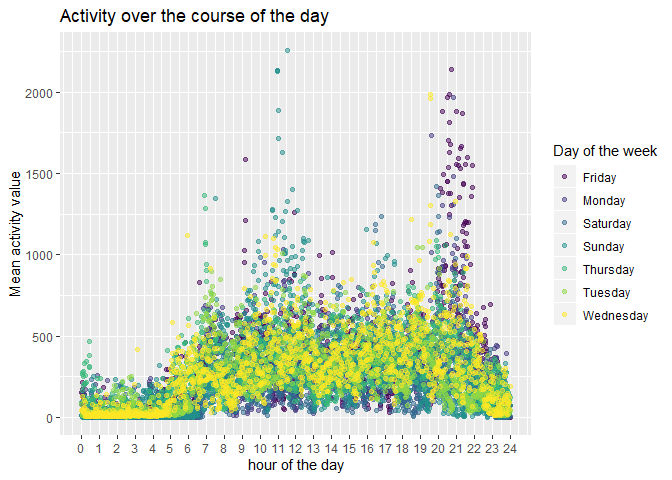
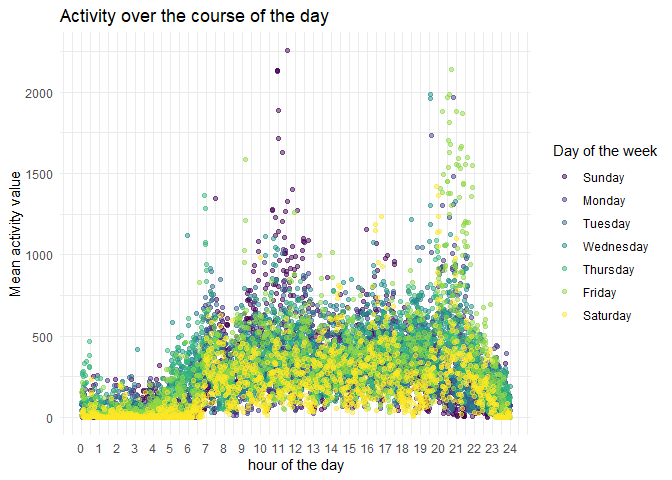
Plot change

diff --git a/p8105_hw3_gx2144.md b/p8105_hw3_gx2144.md
@@ -228,39 +228,38 @@ knitr::kable(meanhour,digits = 0)
 brfss_smart2010 = brfss_smart2010 %>% 
   janitor::clean_names() %>%
     separate(locationdesc, into = c("location" , "place"), sep = 4) %>% 
-    select(year, locationabbr,  state = locationabbr, place, response_value = data_value, -location, response, topic) %>% 
-  filter(topic == "Overall Health"& 
-         response == c("Excellent","Very good","Fair","Good","Poor")) %>%
+    select(year, locationabbr,  state = locationabbr, 
+    place,response_value = data_value, -location, response, topic) %>% 
+    filter(topic == "Overall Health"& 
+           response %in% c("Excellent","Very good","Fair","Good","Poor")) %>%
   mutate(
     response = factor(response, 
-               levels = c("Excellent","Very good","Good","Fair","Poor"))
+    levels = c("Excellent","Very good","Good","Fair","Poor"))
          ) 
 ```
-
-    ## Warning in response == c("Excellent", "Very good", "Fair", "Good", "Poor"):
-    ## longer object length is not a multiple of shorter object length
 
 ## States observed at 7 or more locations
 
 ``` r
 states = brfss_smart2010 %>%
   select(year,state,place,response) %>% 
-  filter(year == "2002"|year == "2010") %>%
+  filter(year == "2002"| year == "2010") %>%
   group_by(year,state) %>% 
-  summarize(n = n_unique(place)) %>% 
-  filter(n >= 7) %>% 
-  arrange(n)
+  summarize(
+    count = n_unique(place) 
+    )%>% 
+  filter(count >= 7) 
 ```
 
-  - There are only one state which were observed at 7 or more locations
-    in 2002 which is PA.
+  - There are only 6 states which were observed at 7 or more locations
+    in 2002 which were CT,FL,MA,NC,NJ,PA.
 
-  - There are 7 state which were observed at 7 or more locations in
-    2010.They were CA,WA,NC,NJ,MD,TX,FL.Compared to 2002,more states
-    were observed and more locations were surveyed.And there were big
-    differences between the choice of state where the survey was
-    conducted.Changes between 2002 and 2010 reflect potential public
-    health concerns given by the investigators.
+  - There are 14 states which were observed at 7 or more locations in
+    2010.They were CA,CO,FL,MA,MD,NC,NE,NJ,NY,OH,PA,SC,TX,WA.Compared to
+    2002,more states were observed and more locations were surveyed.And
+    there were big differences between the choice of state where the
+    survey was conducted.Changes between 2002 and 2010 reflect potential
+    public health concerns given by the investigators.
 
 <!-- end list -->
 
@@ -274,13 +273,16 @@ excellent = brfss_smart2010 %>%
   
 ggplot(excellent,aes(x = year,y = meanvalue))+
     geom_line(aes(color = state)) + 
-    theme(legend.position = "right")+       
+    theme_set(theme_minimal() + 
+              theme(legend.position = "right"))+       
     scale_y_continuous(breaks = seq(0,40,5))
 ```
 
 ![](p8105_hw3_gx2144_files/figure-gfm/unnamed-chunk-8-1.png)<!-- -->
 
-  - comment:
+  - Comment: We can see from this "“spaghetti”plot that the mean of the
+    response\_value flucuate with the years. The highest response is
+    around 27 and the lowest response is around 15.
 
 <!-- end list -->
 
@@ -292,7 +294,7 @@ NY = brfss_smart2010 %>%
          ) %>% 
   select(-state)
 ggplot(NY,aes(x = response,y = response_value,fill =place ))+
-      geom_bar(stat = "identity" , position = "dodge",width = 0.4)+
+      geom_bar(stat = "identity" , position = "dodge",width = 0.8)+
       theme(legend.position = "right")+
       ggthemes::theme_excel()+
       scale_y_continuous(breaks = seq(0,30,2))+
@@ -301,20 +303,26 @@ ggplot(NY,aes(x = response,y = response_value,fill =place ))+
 
 ![](p8105_hw3_gx2144_files/figure-gfm/unnamed-chunk-9-1.png)<!-- -->
 
-  - comment: We can see from this two panels that for Bronx county, the
-    data was collected only in 2010 and people’s response to their
-    overall health is “Fair”.For Kings County, people in 2006 thought
-    their response to overall health is fair but things changed in 2010.
-    Most of them thought they have “Excellent” or “Very good” response
-    to their overall health status and only few of them responsed
-    “poor”.For New York county, people’s response to overally health
-    has improved from “Poor” to “Fair”.For Queens County, data in 2006
-    shows that they thought their ovrall health status is “Good”. For
-    people living in Suffolk County, their health status decreased over
-    the years.As for those living in Westchester County, data collcted
-    in 2010 shows that most of them thought they have “Excellent” or
-    “Very good” response to their overall health status and only few
-    of them responsed “poor”.
+  - Comment:
+  - We can see from this two panels that for Bronx county, the data was
+    collected only in 2010 and the most response to their overall health
+    is “Good”.
+  - For Erie County, data was collected in 2010 and most of them
+    responsed as “Very Good”.
+  - For Kings County, people in 2006 thought their response to overall
+    health is mostly “Good”, but things changed in 2010. Most of them
+    thought they have “Very good” response to their overall health
+    status and only few of them responsed “poor”.
+  - For Monroe county, people’s response to “Very Good” most .
+  - For Nassau County, data in 2006 and 2010 shows that majority of them
+    thought their ovrall health status is “Very Good”.
+  - For people living in Queens County, their health status distribution
+    remained the same over the years .
+  - As for those living in Westchester County, their health status
+    distribution remained the same over the years. Most of them
+    responsed “Very Good”.
+  - As to Suffolk County, their health status distribution remained the
+    same over the years.Most of them responsed “Very Good.”
 
 ## problem 3
 
@@ -323,7 +331,9 @@ options(digits=0)
 
 accelerometer = read.csv("./accel_data.csv") %>% 
   na.omit() %>% 
-  mutate(
+  mutate(week = as.factor(week),
+    day = factor(day, levels = c("Sunday", "Monday", "Tuesday",
+   "Wednesday","Thursday", "Friday",    "Saturday")),
     dayorweekends = recode(day,
       Friday = "weekdays",
       Thursday = "weekdays",
@@ -331,7 +341,8 @@ accelerometer = read.csv("./accel_data.csv") %>%
       Tuesday = "weekdays",
       Monday = "weekdays",
       Saturday = "weekdend",
-      Sunday = "weekdend")
+      Sunday = "weekdend"),
+    
     ) %>% 
   select(dayorweekends,everything()) %>% 
   pivot_longer(
@@ -358,8 +369,9 @@ accelerometer = read.csv("./accel_data.csv") %>%
 ### total activity over the day
 
 ``` r
+options(scipen = 10)
 totalday = accelerometer %>% 
-  group_by(day_id ) %>% 
+  group_by(week, day ) %>% 
   summarize(
     total = sum(activity_count)
     )
@@ -367,47 +379,48 @@ totalday = accelerometer %>%
 knitr::kable(totalday)
 ```
 
-| day\_id |        total |
-| ------: | -----------: |
-|       1 | 4.805430e+05 |
-|       2 | 7.882800e+04 |
-|       3 | 3.762540e+05 |
-|       4 | 6.311050e+05 |
-|       5 | 3.559240e+05 |
-|       6 | 3.070940e+05 |
-|       7 | 3.401150e+05 |
-|       8 | 5.688390e+05 |
-|       9 | 2.954310e+05 |
-|      10 | 6.071750e+05 |
-|      11 | 4.220180e+05 |
-|      12 | 4.740480e+05 |
-|      13 | 4.232450e+05 |
-|      14 | 4.409620e+05 |
-|      15 | 4.674200e+05 |
-|      16 | 6.859100e+05 |
-|      17 | 3.829280e+05 |
-|      18 | 4.670520e+05 |
-|      19 | 3.712300e+05 |
-|      20 | 3.815070e+05 |
-|      21 | 4.688690e+05 |
-|      22 | 1.540490e+05 |
-|      23 | 4.094500e+05 |
-|      24 | 1.440000e+03 |
-|      25 | 2.606170e+05 |
-|      26 | 3.402910e+05 |
-|      27 | 3.195680e+05 |
-|      28 | 4.344600e+05 |
-|      29 | 6.208600e+05 |
-|      30 | 3.890800e+05 |
-|      31 | 1.440000e+03 |
-|      32 | 1.384210e+05 |
-|      33 | 5.496580e+05 |
-|      34 | 3.678240e+05 |
-|      35 | 4.453660e+05 |
+| week | day       |  total |
+| :--- | :-------- | -----: |
+| 1    | Sunday    | 631105 |
+| 1    | Monday    |  78828 |
+| 1    | Tuesday   | 307094 |
+| 1    | Wednesday | 340115 |
+| 1    | Thursday  | 355924 |
+| 1    | Friday    | 480543 |
+| 1    | Saturday  | 376254 |
+| 2    | Sunday    | 422018 |
+| 2    | Monday    | 295431 |
+| 2    | Tuesday   | 423245 |
+| 2    | Wednesday | 440962 |
+| 2    | Thursday  | 474048 |
+| 2    | Friday    | 568839 |
+| 2    | Saturday  | 607175 |
+| 3    | Sunday    | 467052 |
+| 3    | Monday    | 685910 |
+| 3    | Tuesday   | 381507 |
+| 3    | Wednesday | 468869 |
+| 3    | Thursday  | 371230 |
+| 3    | Friday    | 467420 |
+| 3    | Saturday  | 382928 |
+| 4    | Sunday    | 260617 |
+| 4    | Monday    | 409450 |
+| 4    | Tuesday   | 319568 |
+| 4    | Wednesday | 434460 |
+| 4    | Thursday  | 340291 |
+| 4    | Friday    | 154049 |
+| 4    | Saturday  |   1440 |
+| 5    | Sunday    | 138421 |
+| 5    | Monday    | 389080 |
+| 5    | Tuesday   | 367824 |
+| 5    | Wednesday | 445366 |
+| 5    | Thursday  | 549658 |
+| 5    | Friday    | 620860 |
+| 5    | Saturday  |   1440 |
 
   - Based on the data, we can see that the sum of the activity count of
     a day periodically fluctuates.Once the sum is high, it goes down for
-    a couple of days and then rises up again.
+    a couple of days and then rises up again. Also it seems like the
+    patients does activities more on Sunday and Friday.
 
 ### inspection activity over the course of the day
 
